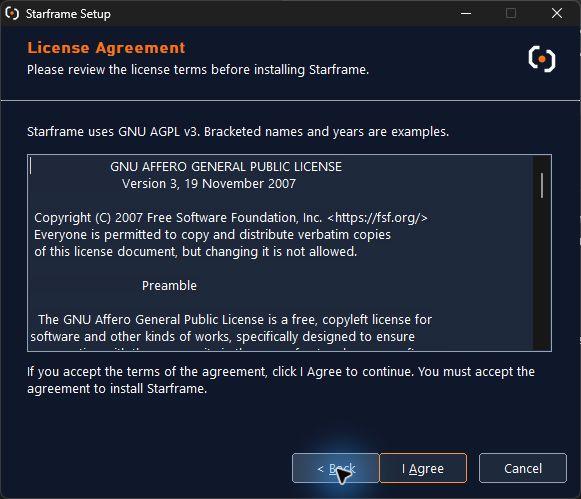
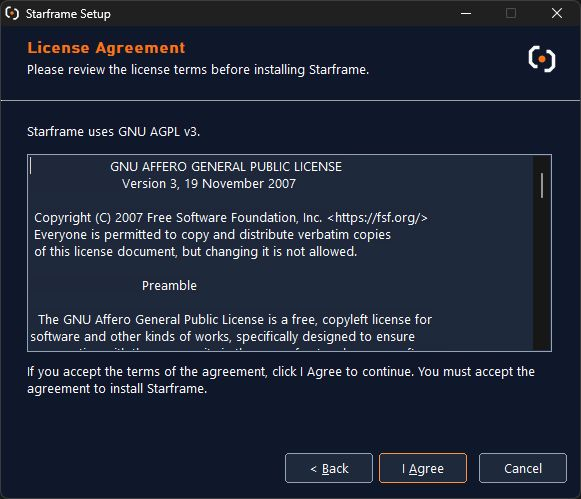
Separate installer navigation buttons and shorten license copy

Changed region(s): [[0.4957, 0.8717, 0.6506, 1.0], [0.3408, 0.2405, 0.7745, 0.2705]]

diff --git a/src-tauri/windows/theme/buttons.cpp b/src-tauri/windows/theme/buttons.cpp
@@ -219,6 +219,21 @@ extern "C" void __cdecl Apply(HWND parent, int, wchar_t*, void*, void*)
     HMODULE module;
     if (!GetModuleHandleExW(GET_MODULE_HANDLE_EX_FLAG_FROM_ADDRESS | GET_MODULE_HANDLE_EX_FLAG_PIN,
         reinterpret_cast<LPCWSTR>(&Apply), &module)) return;
+    const HWND back = GetDlgItem(parent, 3);
+    RECT backBounds;
+    RECT nextBounds;
+    RECT cancelBounds;
+    if (GetWindowRect(back, &backBounds)
+        && GetWindowRect(GetDlgItem(parent, 1), &nextBounds)
+        && GetWindowRect(GetDlgItem(parent, 2), &cancelBounds)) {
+        const int gap = (cancelBounds.left - nextBounds.right) / 2;
+        if (gap > 0) {
+            POINT position = {nextBounds.left - gap - (backBounds.right - backBounds.left), backBounds.top};
+            ScreenToClient(parent, &position);
+            SetWindowPos(back, nullptr, position.x, position.y, 0, 0,
+                SWP_NOSIZE | SWP_NOZORDER | SWP_NOACTIVATE);
+        }
+    }
     const HWND header = GetDlgItem(parent, 1037);
     const HWND subtitle = GetDlgItem(parent, 1038);
     const HWND background = GetDlgItem(parent, 1034);

diff --git a/docs/verification/windows-installer.md b/docs/verification/windows-installer.md
@@ -96,7 +96,7 @@ The complete ordinary-user installer suite also passed with the schema-12 baseli
 
 ## Installer branding review
 
-The license page identifies Starframe's GNU AGPL v3 license and explains that bracketed names and years are examples. Those entries belong to the standard license's final author-guide section; they are not unfinished Starframe notices. The repository's complete `LICENSE` text remains unchanged.
+The license page identifies Starframe's GNU AGPL v3 license. At the owner's request, its introduction omits the explanation about example names and years. Those entries belong to the standard license's final author-guide section; the repository's complete `LICENSE` text remains unchanged. Back and Next are separated by half the measured Next–Cancel gap, preserving button sizes and keyboard order.
 
 Issue [#74](https://github.com/Mastervoliumpl/Starframe/issues/74) extends the existing NSIS installer with the accepted portrait artwork, Segoe UI body text, Bahnschrift headings with a system fallback, navy surfaces and orange headings/progress. A small Starframe-owned Win32 drawing helper gives the native buttons thin borders and orange keyboard focus; fields, group frames and divider lines also use thin borders. The title bar uses Windows dark styling. The license, destination field and details list use readable light text on navy. License URLs remain selectable plain text so RichEdit does not force blue links with insufficient contrast. No new installer framework, external plugin or redistributed Windows font was added.
 
